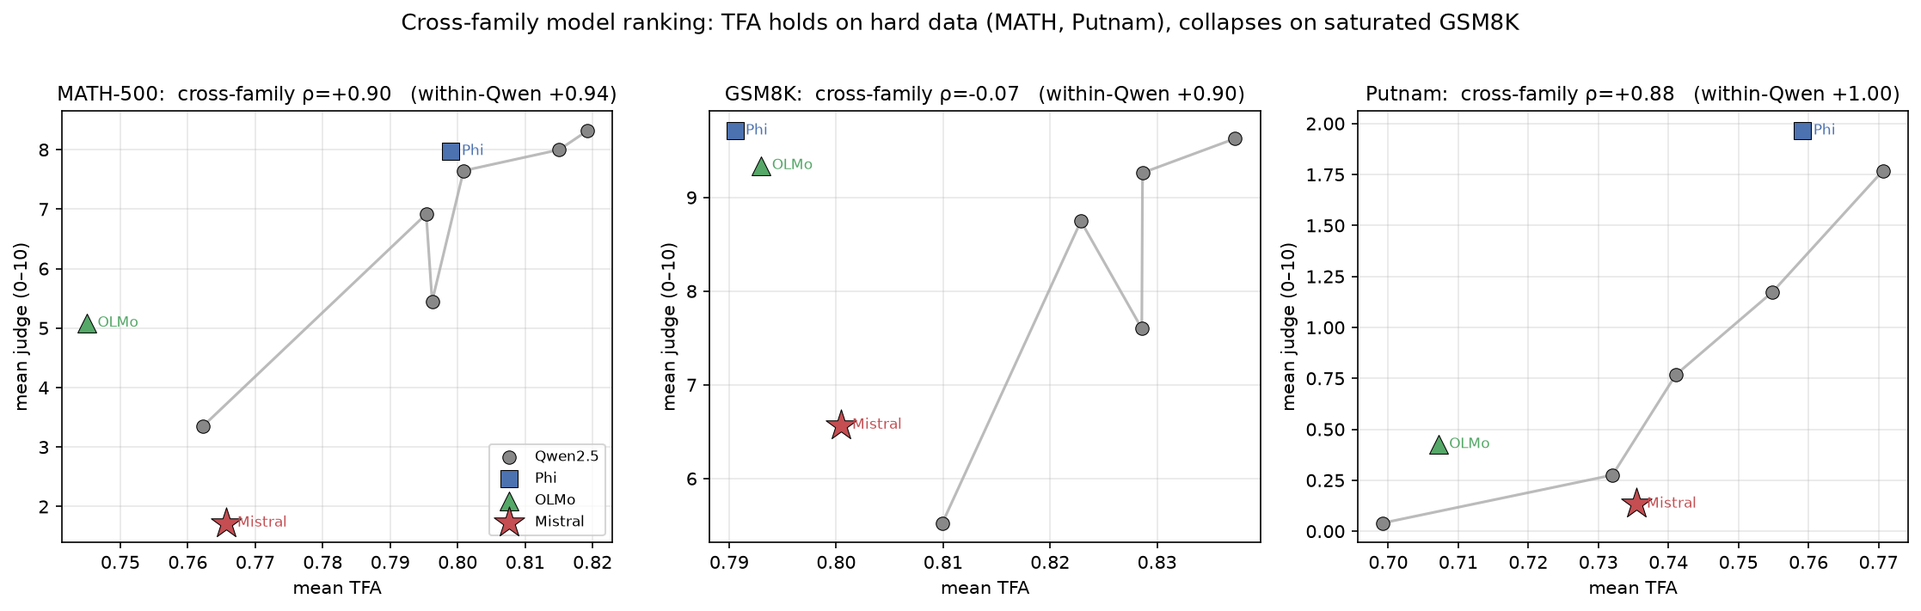
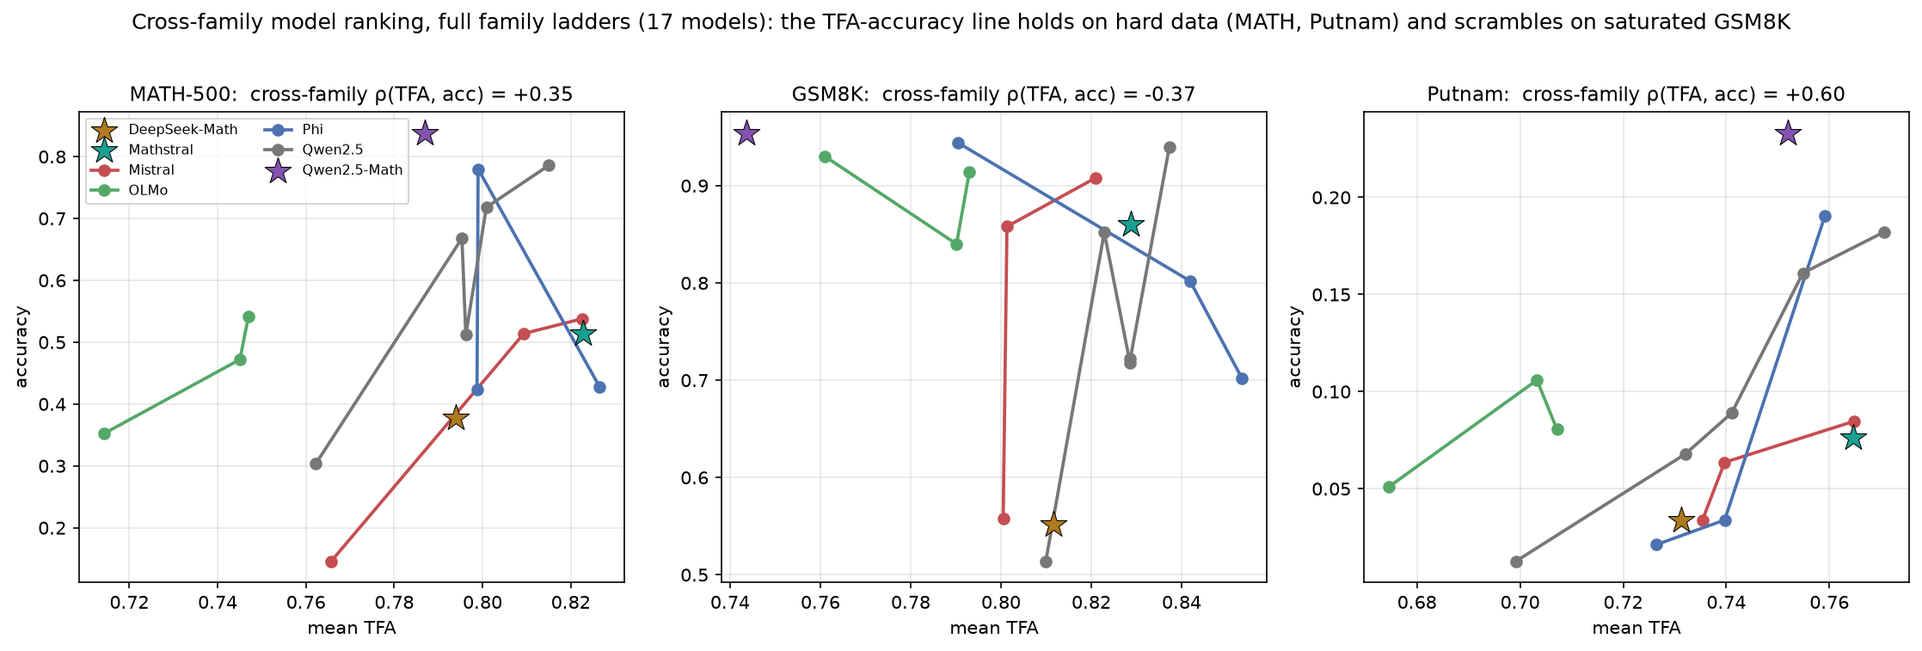
paper: merge four cross-family sections into one boundary-map story
Collapse the four overlapping cross-family sections into a single
coherent section anchored by the full 17-model family-ladder figure
(MATH +0.35, GSM8K -0.37, Putnam +0.60). Flow: generalization question
-> within-family (Mistral/Qwen work, Phi/OLMo invert) -> cross-family
boundary -> GSM8K collapse mechanism -> math-specialized outliers plus
original-paper reconciliation -> Omni-MATH sharpens -> code breaks ->
one-boundary summary with item-level shadow. Regenerate fig6 as
connected per-family ladders with math-specialized stars.

diff --git a/experiments/tfa-vs-judge/scripts/make_d2_fig.py b/experiments/tfa-vs-judge/scripts/make_d2_fig.py
@@ -1,54 +1,67 @@
-# Figure for D2 (cross-family generalization): per-anchor-dataset scatter of mean-TFA vs mean-judge,
-# Qwen ladder as a line, new families as distinct markers. Shows cross-family ranking survives on
-# hard data (MATH/Putnam) but collapses on saturated GSM8K.
+# Figure 6 (cross-family generalization): mean-TFA vs boxed accuracy across the full family ladders
+# (17 models, 7 families) on the three anchor datasets. Each family with >=2 models is drawn as a
+# connected line so the within-family trend is visible; math-specialized models (one each) are stars.
+# Shows the TFA-accuracy relation holds on hard data (MATH, Putnam) and scrambles on saturated GSM8K.
 import json, glob, collections, numpy as np
 from scipy import stats
 import matplotlib; matplotlib.use("Agg")
 import matplotlib.pyplot as plt
+from tfa.boxed import extract_boxed, extract_final_answer, answers_equivalent
 
 OUT = "paper/figs"
+
 def fam(m):
     m = m.lower()
-    return ("Qwen2.5" if "qwen2.5" in m else "Mistral" if "mistral" in m else "Phi" if "phi" in m
-            else "OLMo" if "olmo" in m else "?")
-STYLE = {"Qwen2.5": ("#888888", "o", 55), "Mistral": ("#C44E52", "*", 320),
-         "Phi": ("#4C72B0", "s", 90), "OLMo": ("#55A868", "^", 110)}
+    if "qwen2.5-math" in m: return "Qwen2.5-Math"
+    if "deepseek-math" in m: return "DeepSeek-Math"
+    if "mathstral" in m: return "Mathstral"
+    if "qwen2.5" in m: return "Qwen2.5"
+    if "mistral" in m: return "Mistral"
+    if "phi" in m: return "Phi"
+    if "olmo" in m: return "OLMo"
+    return "other"
 
-ANCHORS = [("MATH-500", ["runs/math500/*.judged.jsonl", "runs/d2/math500__*.judged.jsonl"]),
-           ("GSM8K",    ["runs/gsm8k/*.judged.jsonl",   "runs/d2/gsm8k__*.judged.jsonl"]),
-           ("Putnam",   ["runs/putnam/*.judged.jsonl",  "runs/d2/putnam-axiom__*.judged.jsonl"])]
+COL = {"Qwen2.5": "#777777", "Mistral": "#C44E52", "Phi": "#4C72B0", "OLMo": "#55A868",
+       "Qwen2.5-Math": "#8452b0", "DeepSeek-Math": "#b07a1e", "Mathstral": "#1ba090"}
 
-fig, axes = plt.subplots(1, 3, figsize=(15, 4.6))
-for ax, (ds, globs) in zip(axes, ANCHORS):
-    by = collections.defaultdict(list)
+def gold(r, dk):
+    return r["gold_solution"].split("####")[-1].strip().replace(",", "") if dk == "gsm8k" else extract_boxed(r["gold_solution"])
+
+ANCHORS = [
+    ("MATH-500", ["runs/math500/*.judged.jsonl", "runs/d2/math500__*.judged.jsonl",
+                  "runs/wsv/math500__*.jsonl", "runs/all/math500__*.jsonl"], "math500"),
+    ("GSM8K", ["runs/gsm8k/*.judged.jsonl", "runs/d2/gsm8k__*.judged.jsonl", "runs/all/gsm8k__*.jsonl"], "gsm8k"),
+    ("Putnam", ["runs/putnam/*.judged.jsonl", "runs/d2/putnam-axiom__*.judged.jsonl",
+                "runs/wsv/putnam-axiom__*.jsonl", "runs/all/putnam-axiom__*.jsonl"], "putnam"),
+]
+
+fig, axes = plt.subplots(1, 3, figsize=(15, 4.9))
+for ax, (ds, globs, dk) in zip(axes, ANCHORS):
+    by = {}
     for g in globs:
         for f in glob.glob(g):
             R = [json.loads(l) for l in open(f)]
-            if R: by[R[0]["model"]] += R
-    pts = {}
-    for m, R in by.items():
-        pts[m] = (fam(m), np.mean([r["tfa_argmax"] for r in R]), np.mean([r["judge_score"] for r in R]))
-    mt = np.array([v[1] for v in pts.values()]); mj = np.array([v[2] for v in pts.values()])
-    fams = [v[0] for v in pts.values()]; qm = np.array([f == "Qwen2.5" for f in fams])
-    rho_pool = stats.spearmanr(mt, mj).statistic
-    rho_qwen = stats.spearmanr(mt[qm], mj[qm]).statistic
-    # Qwen line
-    q = sorted([(v[1], v[2]) for v in pts.values() if v[0] == "Qwen2.5"])
-    ax.plot([a for a, _ in q], [b for _, b in q], "-", color="#bbbbbb", lw=1.5, zorder=1)
-    seen = set()
-    for m, (fm, t, j) in pts.items():
-        col, mk, sz = STYLE[fm]
-        ax.scatter(t, j, c=col, marker=mk, s=sz, edgecolors="black", linewidths=0.5,
-                   label=fm if fm not in seen else None, zorder=3)
-        seen.add(fm)
-        if fm != "Qwen2.5":
-            ax.annotate(fm, (t, j), textcoords="offset points", xytext=(6, -2), fontsize=8, color=col)
-    ax.set_title(f"{ds}:  cross-family ρ={rho_pool:+.2f}   (within-Qwen {rho_qwen:+.2f})", fontsize=11)
-    ax.set_xlabel("mean TFA"); ax.set_ylabel("mean judge (0–10)")
+            if not R or "Qwen2.5-32B" in R[0]["model"]: continue   # keep the 5-model Qwen ladder
+            m = R[0]["model"].split("/")[-1]
+            cc = [int(answers_equivalent(extract_final_answer(r["free_gen"], dk), gold(r, dk) or "")) for r in R]
+            by[m] = (fam(R[0]["model"]), float(np.mean([r["tfa_argmax"] for r in R])), float(np.mean(cc)))
+    mt = np.array([v[1] for v in by.values()]); ma = np.array([v[2] for v in by.values()])
+    rho = stats.spearmanr(mt, ma).statistic
+    byfam = collections.defaultdict(list)
+    for m, v in by.items(): byfam[v[0]].append((v[1], v[2]))
+    for f, pts in sorted(byfam.items()):
+        pts = sorted(pts); c = COL.get(f, "#333")
+        xs = [p[0] for p in pts]; ys = [p[1] for p in pts]
+        if len(pts) >= 2:
+            ax.plot(xs, ys, "-o", color=c, ms=6, lw=1.8, label=f, zorder=3)
+        else:
+            ax.scatter(xs, ys, c=c, marker="*", s=240, edgecolors="black", linewidths=0.5, label=f, zorder=4)
+    ax.set_title(f"{ds}:  cross-family ρ(TFA, acc) = {rho:+.2f}", fontsize=11)
+    ax.set_xlabel("mean TFA"); ax.set_ylabel("accuracy")
     ax.grid(alpha=0.3)
-    if ds == "MATH-500": ax.legend(fontsize=8, loc="lower right")
-fig.suptitle("Cross-family model ranking: TFA holds on hard data (MATH, Putnam), collapses on saturated GSM8K",
-             fontsize=12.5, y=1.02)
+    if ds == "MATH-500": ax.legend(fontsize=7.5, loc="upper left", ncol=2)
+fig.suptitle("Cross-family model ranking, full family ladders (17 models): the TFA-accuracy line holds on "
+             "hard data (MATH, Putnam) and scrambles on saturated GSM8K", fontsize=12, y=1.02)
 fig.tight_layout()
 fig.savefig(f"{OUT}/fig6_cross_family.png", dpi=150, bbox_inches="tight"); plt.close(fig)
 print("WROTE", f"{OUT}/fig6_cross_family.png")

diff --git a/experiments/tfa-vs-judge/paper/PAPER.md b/experiments/tfa-vs-judge/paper/PAPER.md
@@ -75,43 +75,19 @@ The entire picture is judge-invariant. TFA ranks the five models the same way un
 
 The second judge is uniformly a touch more conservative: its positive signals sit slightly below gpt-5.2's, and the two judges agree least on GSM8K's *correct* stratum (within-correct ρ = 0.43), where quality differences among short grade-school solutions are subtle. But no sign flips, no ordering changes, and no significant signal becomes insignificant. The judge-free conclusions here are properties of TFA, not of the particular frontier model we appointed as ground truth.
 
-## Does this hold beyond one model family?
+## Does model ranking generalize? A boundary set by the reference
 
-The second question is whether the results are idiosyncratic to Qwen2.5. Because TFA is a statistic of a model's own tokenizer and log-probabilities, family-specificity is a live worry. We added three other instruction-tuned families with distinct tokenizers (Mistral-7B, Phi-4 at 14B, and OLMo-2-13B) and re-ran the three anchor datasets.
+TFA ranks the Qwen ladder well; the question is whether that survives beyond one model family. Because TFA is a statistic of a model's own tokenizer and log-probabilities, family-specificity is a live worry, so we ran the full sweep behind this paper: seventeen models in seven families, with size ladders for Mistral (7B, Ministral-8B, Small-22B), Phi (3.5-mini, 3-medium, Phi-4), and OLMo-2 (7B, 13B, 32B), and three math-specialized models (Qwen2.5-Math, DeepSeek-Math, Mathstral), alongside the Qwen ladder, on the six math datasets plus an olympiad set (Omni-MATH) and a code benchmark (HumanEval). The answer is not yes or no but a boundary, and the boundary is set by how constrained the reference is and whether the models share its style (Figure 6).
 
-Model-level ranking splits along the same saturation line that governs the item-level signal (Figure 6). On the harder, unsaturated datasets it generalizes cleanly: pooling all four families, mean-TFA still tracks the judge at ρ = +0.90 on MATH-500 and +0.88 on Putnam, barely below the within-Qwen +0.94 and +1.00. On saturated GSM8K it breaks, the cross-family correlation collapses to −0.07, down from +0.90 within Qwen. The scatter shows why: on GSM8K every model's TFA is pinned in a narrow 0.79–0.84 band, and each family sits at its own offset inside it. Mistral reproduces gold tokens as fluently as anyone (TFA 0.80) while solving far less (judge 6.6 versus Phi-4's 9.7), so ranking families by raw TFA scrambles them. TFA measures how predictable the reference is under a given model, and that predictability carries a family-specific baseline that stays negligible only when the data is hard enough to spread the models apart.
+![Cross-family model ranking across the full family ladders: the TFA-accuracy relationship holds on hard, constrained references (MATH-500 ρ = +0.35, Putnam +0.60) and scrambles on saturated GSM8K (−0.37), because each family sits at its own TFA offset.](figs/fig6_cross_family.png)
 
-![Cross-family model ranking by TFA: it holds on hard, unsaturated data (MATH-500, Putnam) but collapses on saturated GSM8K, where the new families sit off the Qwen line.](figs/fig6_cross_family.png)
+**Within a family, TFA ranks, but not always.** It ranks the Qwen ladder (+0.6 to +1.0) and the Mistral ladder (+1.0) cleanly on every dataset. But Phi and OLMo invert on the easy, saturated sets: on GSM8K the better Phi models have the lower TFA (Pearson −0.97), because their stronger members answer in an increasingly non-reference style and predict the terse gold worse even as they solve more. Even the within-family guarantee holds only when a family's models share a stable style close to the reference. The full within-family table is in the appendix.
 
-The item-level picture is family-robust where it was zero and family-dependent where it was positive. The MATH null reproduces for every family (partial ρ from −0.01 to −0.14, none positive). The small GSM8K signal appears in Qwen (+0.115) and Mistral (+0.103) but vanishes in Phi-4 and OLMo, which are accuracy-saturated on GSM8K (94% and 91%), leaving no spread among correct answers for TFA to grade. The Putnam signal is strong in Qwen (+0.22) but cannot be confirmed in the new families, whose correct strata are too small (3 to 19 percent accuracy) to estimate. Nothing here contradicts the paper's conclusions in another family, but the positive item-level signals need both an unsaturated dataset and a model with enough correct-but-varied solutions to grade, conditions the Qwen ladder happens to meet best.
+**Across families, it holds on hard references and collapses on easy ones.** Pooling all seventeen models, mean-TFA ranks by accuracy on the hard, constrained references (MATH-500 +0.35, Putnam +0.60) but goes negative on the saturated GSM8K sets (−0.37). On GSM8K every model's TFA is pinned into a narrow 0.79 to 0.84 band, and each family sits at its own offset inside it, so the ranking scrambles. Restricting to the four general families, before the math-specialized models come in below, the same split is sharper: +0.86 on MATH and +0.88 on Putnam, but −0.07 on GSM8K.
 
-## Why the ranking collapses on GSM8K, and not elsewhere
+**Why GSM8K, and not the others.** The collapse is not saturation noise; it has a mechanism. On GSM8K the two strongest models, Phi-4 and OLMo-2, solve the most (94 and 91 percent) yet have the lowest TFA on the reference (0.79), while Mistral has the highest TFA (0.80) and solves the least (56 percent). Higher agreement with the reference goes with lower quality, the reverse of what the metric should capture. Two mechanical explanations fail: scoring only content tokens returns the same correlation, and a per-character bits measure is if anything worse, so it is neither the calculator-markup formatting (expressions such as `<<3*3=9>>` and the `####` marker) nor tokenizer granularity. What remains is the reasoning text itself. GSM8K references are short and written in a compressed, dataset-specific style, a full solution reading "He sprints 3\*3=<<3\*3=9>>9 times. So he runs 9\*60=<<9\*60=540>>540 meters. #### 540." Phi-4 solves the same problem correctly but in labeled prose, so teacher-forced on the terse reference it predicts that phrasing poorly, not because it cannot solve the problem but because it would have written the solution another way. Qwen and Mistral predict the GSM8K style well, consistent with training exposure to it. The style gap between models, about 0.04 in TFA, dwarfs the within-model quality gap of 0.006 to 0.025, so on a short reference the family-level style baseline buries the quality signal. MATH and Putnam references are longer and constrained by the mathematics, so the next token is fixed by the argument rather than by house style, and the ranking survives.
 
-The collapse deserves a direct explanation, because it is not simply noise from a saturated metric. The two strongest models on GSM8K, Phi-4 and OLMo-2, earn the highest judge scores (9.7 and 9.3) yet produce the lowest teacher-forced accuracy on the reference (0.791 and 0.793). Mistral shows the opposite pattern: the highest teacher-forced accuracy among the new families (0.800) paired with the lowest judge score (6.6). Across families, higher agreement with the reference goes with lower solution quality, the reverse of what the metric should capture.
-
-Two mechanical explanations can be ruled out with signals already in the data. If the effect came from the calculator annotations and formatting in the reference (expressions such as `<<3*3=9>>` and the `####` marker), then scoring only content tokens would recover the correlation. It does not: the content-token variant returns the same value on GSM8K. If the effect came from tokenizer granularity, since teacher-forced accuracy is a per-token rate and families split numbers and operators differently, then a per-character measure would recover it. Bits-per-character does not recover it either, and is slightly worse. On MATH-500 and Putnam all three variants agree near +0.85, so the failure is specific to GSM8K rather than to any particular way of counting tokens.
-
-| cross-family ρ(signal, judge) | MATH-500 | GSM8K | Putnam |
-|---|---:|---:|---:|
-| teacher-forced accuracy (all tokens) | +0.86 | −0.07 | +0.88 |
-| teacher-forced accuracy (content tokens) | +0.88 | −0.07 | +0.81 |
-| negative bits-per-character | +0.83 | −0.21 | +0.83 |
-
-What remains is the reasoning text itself. GSM8K reference solutions are short and written in a compressed, dataset-specific style. A representative gold solution reads, in full, "He sprints 3\*3=<<3\*3=9>>9 times. So he runs 9\*60=<<9\*60=540>>540 meters. #### 540." Phi-4 answers the same problem correctly but in a different register, with labeled steps and complete sentences. Teacher-forced on the terse reference, Phi-4 assigns lower probability to that phrasing, not because it cannot solve the problem, but because it would have written the solution another way. Qwen models are far more verbose than the reference in free generation, one of them by more than a factor of ten, yet they still predict the reference well under teacher forcing. This is consistent with their training having made the GSM8K solution style familiar to them. Mistral shares that familiarity and scores high teacher-forced accuracy while solving far fewer problems correctly.
-
-The magnitudes confirm that these baseline differences dominate the quality signal. Within a single model, the gap in teacher-forced accuracy between its well-judged and poorly-judged GSM8K solutions is small, between 0.006 and 0.025. The gap between models is larger: Phi-4 sits about 0.04 below Qwen-7B while scoring higher with the judge. The variation that would rank models by quality is buried under a family-level stylistic baseline that carries no quality information.
-
-The contrast with MATH-500 and Putnam follows from the same account. Their reference solutions are longer and constrained by the mathematics, so the next token in a derivation is fixed mostly by the argument rather than by house style, and predicting it requires genuine competence. GSM8K references are short enough, and stylized enough, that agreement with them measures familiarity with the dataset's format more than reasoning ability. This is the paper's central limitation seen from a new angle: teacher-forced accuracy scores the predictability of a fixed reference, not the quality of the model's own reasoning, and a short canonical reference is where that gap becomes visible across whole models rather than across individual items.
-
-The account makes a testable prediction. If stylistic distance from a single reference is the cause, then scoring each model against several valid solutions, or against its own verified solution, should remove the family baseline and restore the GSM8K ranking. That multi-reference test is the natural next step, and a positive result would also give a practical fix for cross-family use.
-
-## How this squares with the original TFA paper
-
-The paper that introduced teacher-forced accuracy reports its correlation with boxed accuracy as 0.66 on MATH across fifteen models, and 0.52 on Putnam rising to 0.62 once two outliers are dropped, and reads these as validation of the metric. Our within-family Spearman is higher, +0.90 on MATH and +1.00 on Putnam, which looks at first like a disagreement. It is not. Two choices reconcile the numbers, and both fall out of the account above.
-
-The first is the correlation metric. Kendall tau, the honest choice for ranking a handful of models, is far less generous than Spearman. Pooled across four general families on MATH, our Spearman +0.86 becomes Kendall +0.64, which is their 0.66.
-
-The second is the model set. When we add math-specialized models (Qwen2.5-Math, DeepSeek-Math, Mathstral) the pooled correlation drops sharply. Two of them score high teacher-forced accuracy relative to how much they actually solve: DeepSeek-Math solves 38 percent of MATH while reproducing the gold at 0.79, and Mathstral solves 51 percent at 0.82. They were trained on MATH-style solutions, so they predict the reference style beyond their ability to solve the problems, and they fall off the accuracy line. This is the same training-style offset that collapses the GSM8K ranking. Qwen2.5-Math is the mirror image: it solves 84 percent but predicts the verbose gold at only 0.79, because it answers in its own concise style, so the metric understates it.
+**Math-specialized models are the sharpest case, and they reconcile the original TFA paper.** The clearest off-line models are the math-tuned ones. DeepSeek-Math solves 38 percent of MATH but reproduces the gold at 0.79; Mathstral solves 51 percent at 0.82. Trained on MATH-style solutions, they predict the reference beyond their ability to solve it. Qwen2.5-Math is the mirror image, solving 84 percent but predicting the verbose gold at only 0.79 in its own concise style. This resolves an apparent disagreement with the paper that introduced TFA, which reports its correlation with accuracy as 0.66 on MATH across fifteen models and 0.52 on Putnam (rising to 0.62 once two outliers are dropped), below our within-Qwen +0.90 and +1.00. Two choices reconcile the numbers. First the metric: Kendall tau, the honest choice for ranking a handful of models, turns our pooled Spearman +0.86 on MATH into +0.64, which is their 0.66. Second the model set: adding the math-specialized models drops the pooled correlation, and their "0.62 without two outliers" on Putnam is exactly the lift we get by removing them.
 
 | model-level TFA vs boxed accuracy | Pearson | Spearman | Kendall | ICC |
 |---|---:|---:|---:|---:|
@@ -120,23 +96,14 @@ The second is the model set. When we add math-specialized models (Qwen2.5-Math, 
 | Putnam, all 11 models (with math-specialized) | +0.68 | +0.68 | +0.51 | +0.70 |
 | Putnam, general families only | +0.85 | +0.88 | +0.71 | +0.86 |
 
-*Outlier families and why: DeepSeek-Math and Mathstral have teacher-forced accuracy inflated by math-training familiarity with the reference style; Qwen2.5-Math is understated because it solves well in a different, concise style. Removing the math-specialized family recovers the general-family correlation.*
+The model-level result reproduces once metric and model set are matched. Their one untested claim, that TFA gives step-level insight into individual solutions and penalizes a right answer reached by wrong reasoning, does not hold: they never checked it against a judge or against people, and our item-level analysis shows it is absent on MATH.
 
-The two studies then agree. Their MATH 0.66 matches our general-family Kendall of +0.64. Their Putnam 0.52 matches our Kendall with the math-specialized models included, +0.51, and their "0.62 without two outliers" is the same lift we get by removing them, to +0.71 Kendall and +0.88 Spearman. The model-level result reproduces once the metric and the model set are matched. The one claim we could not reproduce is at the item level: the original paper states that teacher-forced accuracy gives step-level insight and penalizes a right answer reached by wrong reasoning, but it never tested that against a judge or against people, and our item-level analysis shows it does not hold on MATH.
+**At the olympiad extreme, TFA gets sharper.** On Omni-MATH accuracy is floored at 2 to 6 percent, yet TFA still ranks the seven models we could run (+0.86 pooled, +0.90 within Qwen) and its range widens to the largest of any dataset. Harder data gives TFA more room, so the worry that it fails once models are weak is inverted, not confirmed.
 
-## How far does model ranking generalize? Families, harder math, and code
+**On code, it breaks.** Code has many valid solutions, so one gold reference penalizes correct-but-different programs. Teacher-forcing TFA on the canonical HumanEval solution and scoring free-generation pass@1 by the unit tests, the cross-family correlation collapses to +0.11 while the within-Qwen ladder holds at +0.80. Mistral-7B has the highest TFA on the reference code and nearly the lowest pass@1: it reproduces the reference style and writes code that does not pass.
 
-The core result is that TFA ranks the Qwen ladder well. To find its edges we ran the full sweep behind this paper: seventeen models across seven families on the six math datasets, plus an olympiad set and a code benchmark. Four findings draw the boundary of where judge-free model ranking with TFA is safe; the full tables are in the appendix.
+**One boundary, and its item-level shadow.** All of these are the same fact. TFA ranks models by how well they reproduce a reference's style, which coincides with quality when the reference is a tightly-constrained trace and the models share its style, and diverges from quality otherwise. Judge-free model ranking with TFA is safe within a family, and across families only on hard, constrained references; on easy or stylized references, on code, and a fortiori on reference-free agentic tasks, it needs a different signal. The item-level null generalizes the same way: the MATH per-item signal stays about zero in every family, and the small GSM8K item-signal appears only in the families that predict the reference style well (Qwen +0.115, Mistral +0.103), vanishing in the accuracy-saturated Phi and OLMo whose correct answers leave TFA no room to vary.
 
-**Within a family, TFA ranks, but not always.** With size ladders for Mistral, Phi, and OLMo alongside Qwen, TFA ranks the Qwen ladder (+0.6 to +1.0) and the Mistral ladder (+1.0) cleanly on every dataset. But Phi and OLMo *invert* on the easy, saturated sets: on GSM8K the better Phi models have the lower TFA (Pearson −0.97), because their stronger members answer in an increasingly non-reference style and predict the terse gold worse even as they solve more. So even the within-family guarantee holds only when a family's models share a stable style close to the reference.
-
-**Across families, the boundary is set by the reference.** Pooling all seventeen models, TFA ranks by accuracy on hard, constrained references (Putnam +0.60) and goes to zero or negative on the saturated GSM8K sets (−0.37), because there each family sits at its own style-offset inside a narrow TFA band. The reconciliation above is the same effect acting through the math-specialized models.
-
-**At the olympiad extreme, TFA gets sharper, not weaker.** On Omni-MATH accuracy is floored at 2 to 6 percent, yet TFA still ranks the seven models we could run (+0.86 pooled, +0.90 within Qwen) and its range widens to the largest of any dataset. Harder data gives TFA more room, so the worry that it fails once models are weak is inverted.
-
-**On code, it breaks.** Code has many valid solutions, so one gold reference penalizes correct-but-different programs. Teacher-forcing TFA on the canonical HumanEval solution and scoring free-generation pass@1 with the unit tests, the cross-family correlation collapses to +0.11 while the within-Qwen ladder holds at +0.80. Mistral-7B has the highest TFA on the reference code and nearly the lowest pass@1: it reproduces the reference style and writes code that does not pass.
-
-All four are one boundary. TFA ranks models by how well they reproduce a reference's style, which coincides with quality when the reference is a tightly-constrained trace and the models share its style, and diverges from quality otherwise. Judge-free model ranking with TFA is safe within a family, and across families only on hard, constrained references; on easy or stylized references, on code, and a fortiori on reference-free agentic tasks, it needs a different signal.
 
 ## A judge-free signal that *does* grade solutions, at a cost
 
